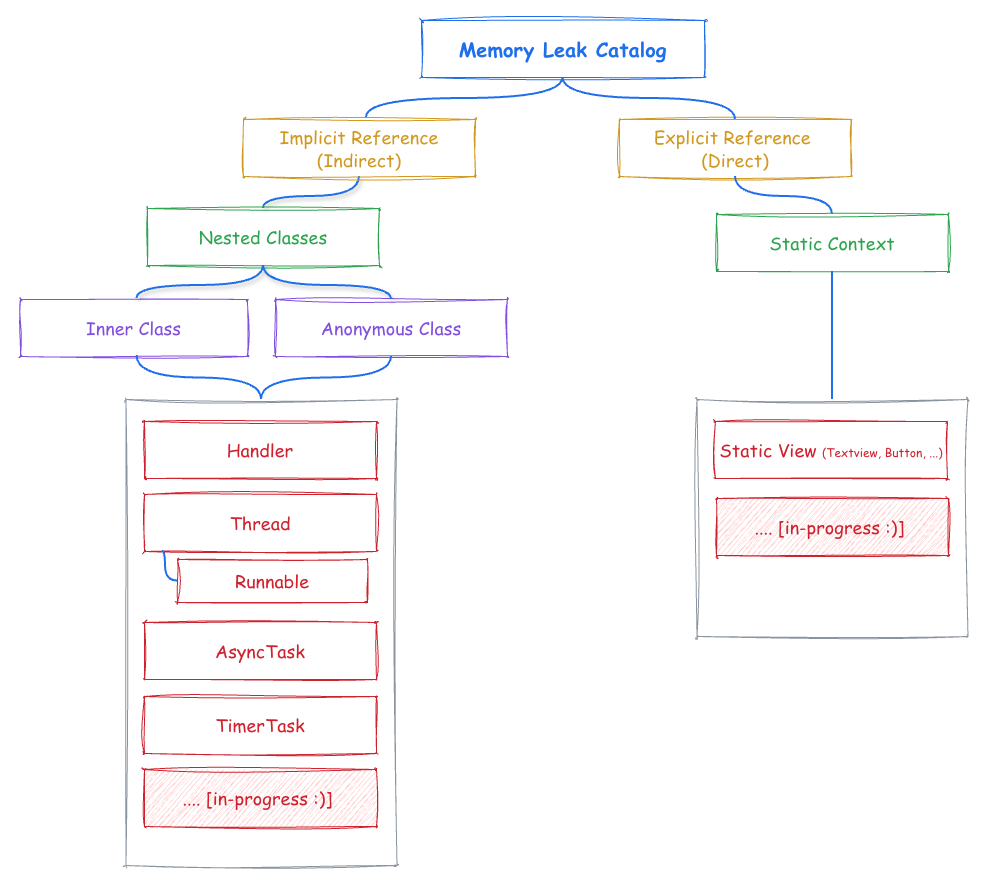
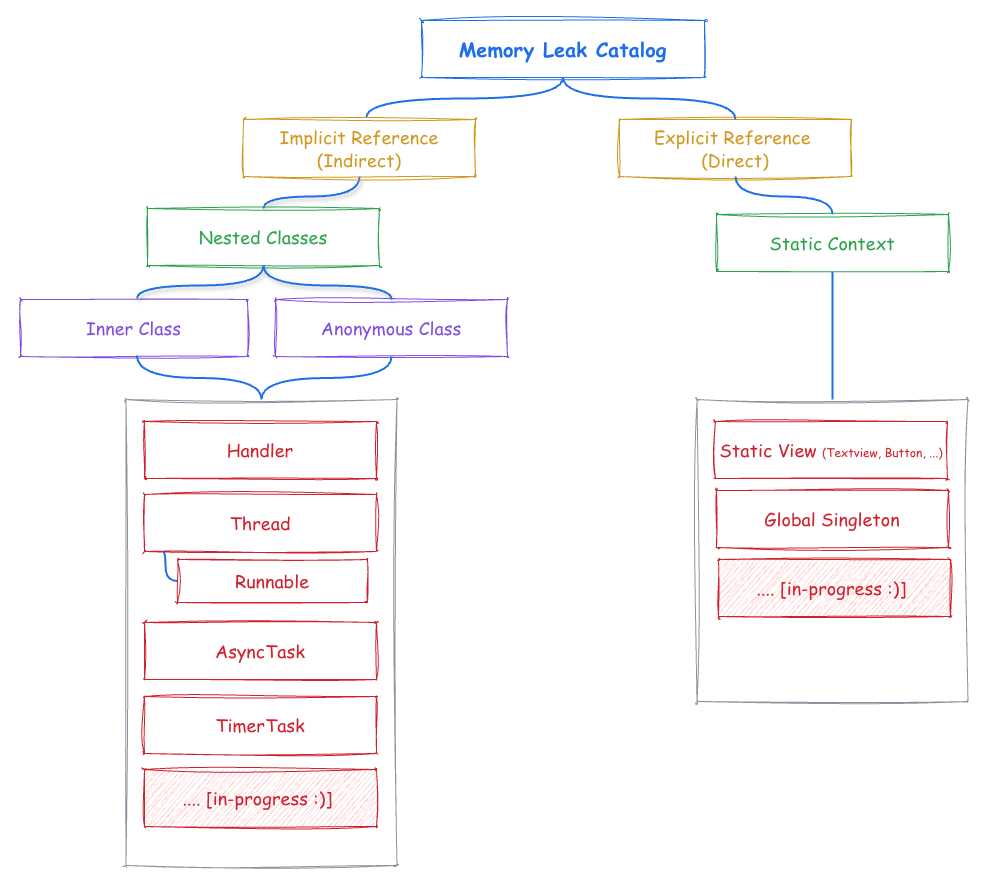
Global singleton (#12)

diff --git a/app/src/main/java/com/memoryleak/catalog/explicit/ExplicitMemoryLeakActivity.kt b/app/src/main/java/com/memoryleak/catalog/explicit/ExplicitMemoryLeakActivity.kt
@@ -8,6 +8,7 @@ import androidx.appcompat.app.AppCompatActivity
 import androidx.core.view.ViewCompat
 import androidx.core.view.WindowInsetsCompat
 import com.memoryleak.catalog.R
+import com.memoryleak.catalog.explicit.global_singleton.GlobalSingletonActivity
 import com.memoryleak.catalog.explicit.staticview.StaticViewActivity
 import com.memoryleak.catalog.implicit.innerclasses.InnerClassActivity
 
@@ -15,9 +16,12 @@ class ExplicitMemoryLeakActivity : AppCompatActivity() {
     override fun onCreate(savedInstanceState: Bundle?) {
         super.onCreate(savedInstanceState)
         setContentView(R.layout.activity_explicit_memory_leak)
+
         findViewById<Button>(R.id.btn_static_view).setOnClickListener {
             startActivity(Intent(this, StaticViewActivity::class.java))
         }
-
+        findViewById<Button>(R.id.btn_global_singleton).setOnClickListener {
+            startActivity(Intent(this, GlobalSingletonActivity::class.java))
+        }
     }
 }

diff --git a/app/src/main/java/com/memoryleak/catalog/explicit/global_singleton/SingletonManager.kt b/app/src/main/java/com/memoryleak/catalog/explicit/global_singleton/SingletonManager.kt
@@ -1,0 +1,20 @@
+package com.memoryleak.catalog.explicit.global_singleton
+
+import android.content.Context
+
+class SingletonManager private constructor(context: Context) {
+
+    private var localContext: Context? = context
+
+    companion object {
+        @Volatile
+        private var instance: SingletonManager? = null
+
+        fun getInstance(context: Context): SingletonManager {
+
+            return instance ?: synchronized(this) {
+                instance ?: SingletonManager(context).also { instance = it }
+            }
+        }
+    }
+}

diff --git a/app/src/main/java/com/memoryleak/catalog/explicit/global_singleton/GlobalSingletonActivity.kt b/app/src/main/java/com/memoryleak/catalog/explicit/global_singleton/GlobalSingletonActivity.kt
@@ -1,0 +1,17 @@
+package com.memoryleak.catalog.explicit.global_singleton
+
+import android.os.Bundle
+import androidx.appcompat.app.AppCompatActivity
+import com.memoryleak.catalog.R
+
+class GlobalSingletonActivity : AppCompatActivity() {
+
+    private lateinit var myManager: SingletonManager
+
+    override fun onCreate(savedInstanceState: Bundle?) {
+        super.onCreate(savedInstanceState)
+        setContentView(R.layout.activity_global_singleton)
+
+        myManager = SingletonManager.getInstance(this)
+    }
+}

diff --git a/docs/GlobalSingleton.md b/docs/GlobalSingleton.md
@@ -1,0 +1,126 @@
+# Global Singleton
+A singleton is a design pattern that ensures a class has only one instance and provides a global point of access to it. While useful, improper use of a singleton can lead to memory leaks.
+
+If a singleton retains references to short-lived objects (Activity, Fragment, View) or improperly scoped resources, those objects cannot be garbage-collected.
+
+Useful when you want a single point of control for actions coordinated across an application, such as:
+* Managing resources
+* Room database instance
+
+
+## The Cause: Holding a Short-Lived Context
+
+A singleton memory leak occurs when a singleton holds a reference to a short-lived `Context`, like an `Activity` or `View` context.  
+When the activity is destroyed (e.g., on screen rotation or when the user navigates away), the garbage collector cannot reclaim the activity's memory because the singleton still holds a strong reference to it. The singleton itself lives as long as the application.
+
+## Leaky Code Example
+
+Here is an example of a singleton that can cause a memory leak by holding onto a `Context`.
+
+```kotlin
+class SingletonManager private constructor(context: Context) {
+
+    private var localContext: Context? = context
+
+    companion object {
+        @Volatile
+        private var instance: SingletonManager? = null
+
+        fun getInstance(context: Context): SingletonManager {
+            return instance ?: synchronized(this) {
+                instance ?: SingletonManager(context).also { instance = it }
+            }
+        }
+    }
+}
+```
+
+When you pass an `Activity` context to `getInstance`, the `SingletonManager` will hold a reference to that `Activity`. If the `Activity` is destroyed, the `SingletonManager` will prevent it from being garbage collected.
+
+### Detect the Memory Leak
+1.  Run the app and rotate the activity.
+2.  Click back to close the activity.
+3.  Check for the leak in the Android Studio Profiler by capturing a heap dump.
+
+**Memory leak from Profiler**
+![singleton_ml.png](../media/singleton_ml.png)
+
+## Fixing the Memory Leak
+
+### Solution 1: Use Application Context
+
+Always use the application context with singletons. The application context is tied to the lifecycle of the application itself, not a specific activity, so it's safe to hold a reference to it in a long-lived object.
+
+```kotlin
+ companion object {
+    @Volatile
+    private var instance: SingletonManager? = null
+
+    fun getInstance(context: Context): SingletonManager {
+        return instance ?: synchronized(this) {
+            // Use applicationContext to avoid leaking the Activity context
+            instance ?: SingletonManager(context.applicationContext).also { instance = it }
+        }
+    }
+}
+```
+
+For a database instance, you should also use the application context.
+
+```kotlin
+object DatabaseProvider {
+    val db: AppDatabase by lazy {
+        Room.databaseBuilder(
+            appContext, // application context only
+            AppDatabase::class.java,
+            "app_db"
+        ).build()
+    }
+}
+```
+
+### Solution 2: Use Weak References
+
+If the singleton needs to hold a reference to a short-lived object, use a `WeakReference`. 
+
+A `WeakReference` does not prevent the garbage collector from reclaiming the object's memory.
+
+```kotlin
+class SingletonManager private constructor(context: Context) {
+    private val contextRef: WeakReference<Context> = WeakReference(context)
+    // Safe usage of the context
+}
+```
+Remember to check if the referenced object is `null` before using it.
+
+### Solution 3: Manual Resource Management
+
+If the singleton must hold resources tied to an activity's lifecycle, provide methods to release these resources when they are no longer needed.
+
+In the Activity:
+```kotlin
+override fun onDestroy() {
+    super.onDestroy()
+    SingletonManager.getInstance(this).releaseResources()
+}
+```
+In `SingletonManager`:
+```kotlin
+class SingletonManager private constructor(context: Context) {
+    private var localContext: Context? = context
+
+    fun releaseResources() {
+        localContext = null
+        // Release other resources, unregister listeners, etc.
+    }
+    
+    // ...
+}
+```
+This approach is more error-prone, as you must remember to call the `releaseResources` method in every `Activity` that uses the singleton.
+
+
+> **Note:** By default, Android Studio will display a memory leak warning if you store a context in a singleton. 
+> This warning can be addressed by clearing the context instance when it's no longer needed, as shown above.
+> 
+> ![singleton_as.png](../media/singleton_as.png)
